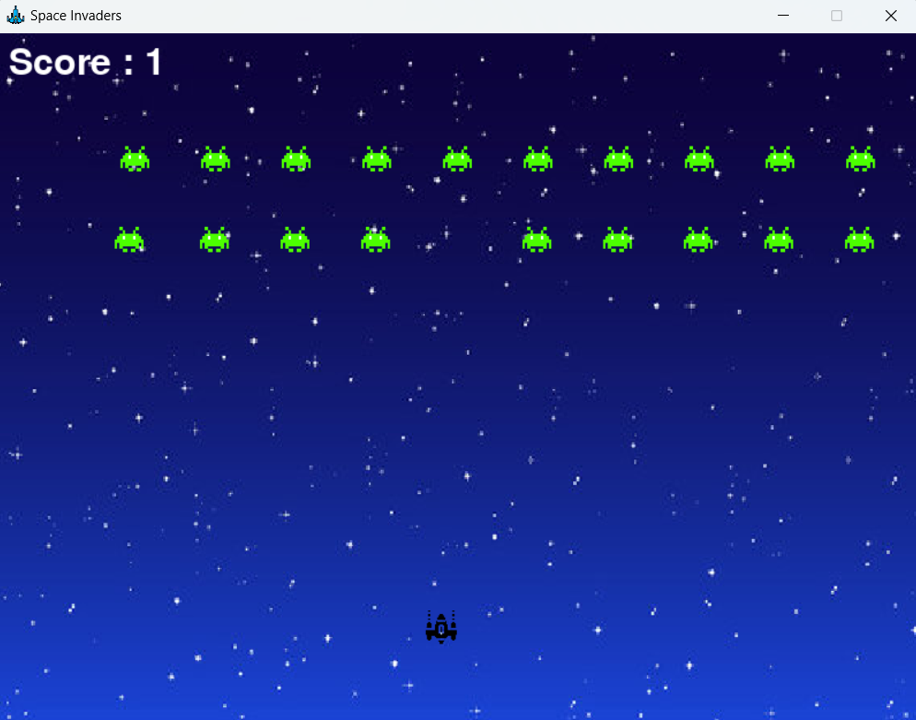
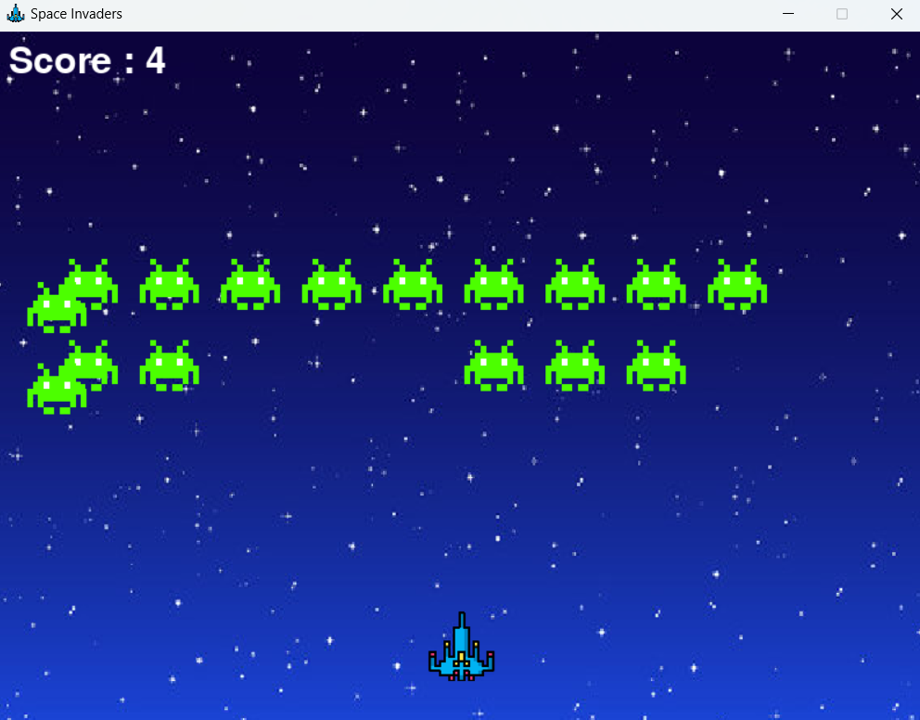
bug fixes

diff --git a/src/main.py b/src/main.py
@@ -117,10 +117,10 @@ while running:
                     enemy.active = False
                 if enemy.y > 475:
                     game_over = True
-                enemy.draw()
+                enemy.draw(screen)
 
-        bullet.draw()
-        player.draw()
+        bullet.draw(screen)
+        player.draw(screen)
         show_score(textX, textY)
 
         if all(not enemy.active for enemy in enemies):

diff --git a/src/player.py b/src/player.py
@@ -2,8 +2,8 @@ import pygame
 
 class Player:
     def __init__(self):
-        self.image = pygame.image.load('assets/player.png')
-        self.image = pygame.transform.scale(self.image, (30, 30))
+        self.image = pygame.image.load('assets/spaceship.png')
+        self.image = pygame.transform.scale(self.image, (60, 60))
         self.x = 370
         self.y = 500
         self.x_change = 0

diff --git a/src/enemy.py b/src/enemy.py
@@ -3,7 +3,7 @@ import pygame
 class Enemy:
     def __init__(self, x, y):
         self.image = pygame.image.load('assets/enemy.png')
-        self.image = pygame.transform.scale(self.image, (30, 30))
+        self.image = pygame.transform.scale(self.image, (60, 60))
         self.x = x
         self.y = y
         self.x_change = 0.5

diff --git a/src/bullet.py b/src/bullet.py
@@ -3,7 +3,7 @@ import pygame
 class Bullet:
     def __init__(self):
         self.image = pygame.image.load('assets/bullet.png')
-        self.image = pygame.transform.scale(self.image, (10, 10))
+        self.image = pygame.transform.scale(self.image, (80, 80))
         self.x = 0
         self.y = 500
         self.y_change = 10
